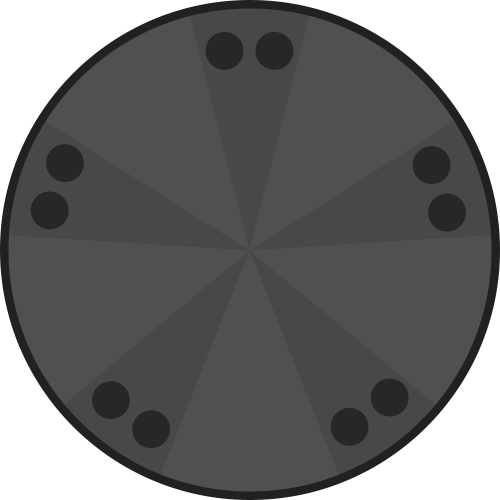
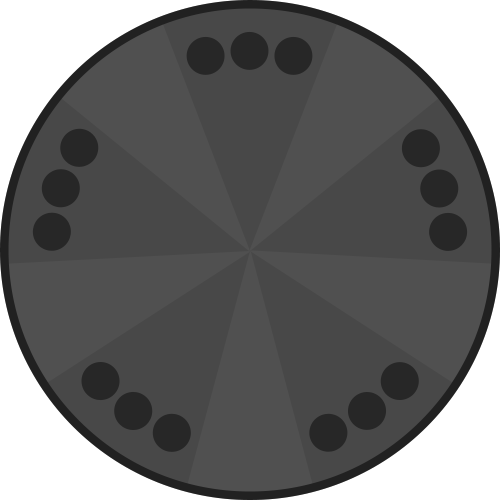
modify pentad, add switch to reducer preset

diff --git a/src/redux/reducers/reducers.js b/src/redux/reducers/reducers.js
@@ -86,45 +86,45 @@ export const actionReducer = (state = initialState, action) => {
         QUOTES: !state.QUOTES
       };
     case "SET_PRESET":
-      if (action.PRESET === 2) {
-        return {
-          ...initialState,
-          SELECTOR_ANGLE: 360,
-          DARK_MODE: state.DARK_MODE,
-          PRESET: action.PRESET,
-          CLUSTER_ANGLE: 20
-        };
-      } else if (action.PRESET === 3) {
-        return {
-          ...initialState,
-          SELECTOR_ANGLE: 360,
-          DARK_MODE: state.DARK_MODE,
-          PRESET: action.PRESET,
-          CLUSTER_ANGLE: 16
-        };
-      } else if (action.PRESET === 4) {
-        return {
-          ...initialState,
-          SELECTOR_ANGLE: 360,
-          DARK_MODE: state.DARK_MODE,
-          PRESET: action.PRESET,
-          CLUSTER_ANGLE: 12
-        };
-      } else if (action.PRESET === 5) {
-        return {
-          ...initialState,
-          SELECTOR_ANGLE: 360,
-          DARK_MODE: state.DARK_MODE,
-          PRESET: action.PRESET,
-          CLUSTER_ANGLE: 15
-        };
-      } else {
-        return {
-          ...initialState,
-          SELECTOR_COUNT: state.SELECTOR_COUNT,
-          SELECTOR_ANGLE: 360,
-          PRESET: action.PRESET
-        };
+      switch (action.PRESET) {
+        case 2:
+          return {
+            ...initialState,
+            SELECTOR_ANGLE: 360,
+            DARK_MODE: state.DARK_MODE,
+            PRESET: action.PRESET,
+            LINKED: true,
+            CLUSTER_ANGLE: 20
+          };
+        case 3:
+          return {
+            ...initialState,
+            SELECTOR_ANGLE: 360,
+            DARK_MODE: state.DARK_MODE,
+            PRESET: action.PRESET,
+            LINKED: true,
+            CLUSTER_ANGLE: 16
+          };
+        case 4:
+          return {
+            ...initialState,
+            SELECTOR_ANGLE: 360,
+            DARK_MODE: state.DARK_MODE,
+            PRESET: action.PRESET,
+            LINKED: true,
+            CLUSTER_ANGLE: 16
+          };
+        case 5:
+          return {
+            ...initialState,
+            SELECTOR_ANGLE: 360,
+            DARK_MODE: state.DARK_MODE,
+            PRESET: action.PRESET,
+            LINKED: true,
+            CLUSTER_ANGLE: 15
+          };
+        default:
+          return state
       }
     case "SET_CLUSTER_ANGLE":
       return {

diff --git a/src/components/Controls/Controls.js b/src/components/Controls/Controls.js
@@ -26,19 +26,8 @@ const Controls_ = props => {
   }, [props.selectorRadius]);
 
   useEffect(() => {
-    switch(props.preset){
-      case 2:
-        props.setSelectorCount(6);
-        break;
-      case 3:
-        props.setSelectorCount(9);
-        break;
-      case 4:
-        props.setSelectorCount(12);
-        break;
-      case 5:
-        props.setSelectorCount(10);
-        break;
+    if(props.preset != 1) {
+      props.setSelectorCount(props.preset*3);
     }
   }, [props.preset]);
 
